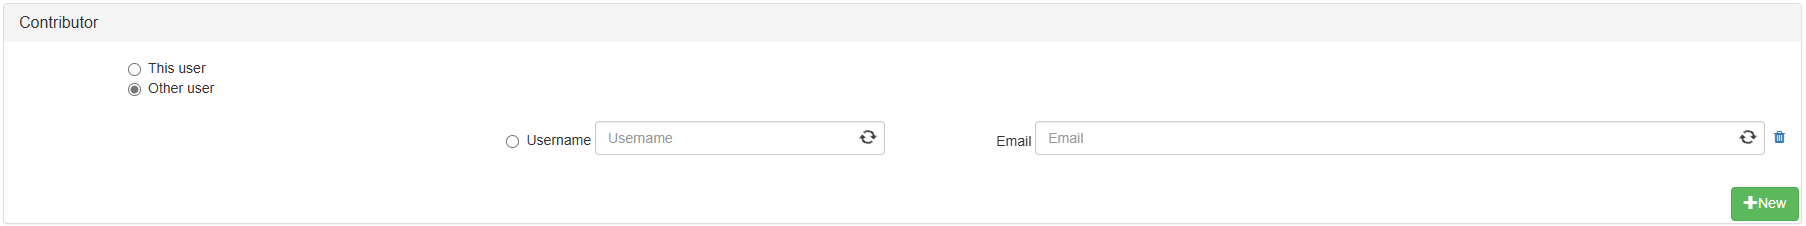
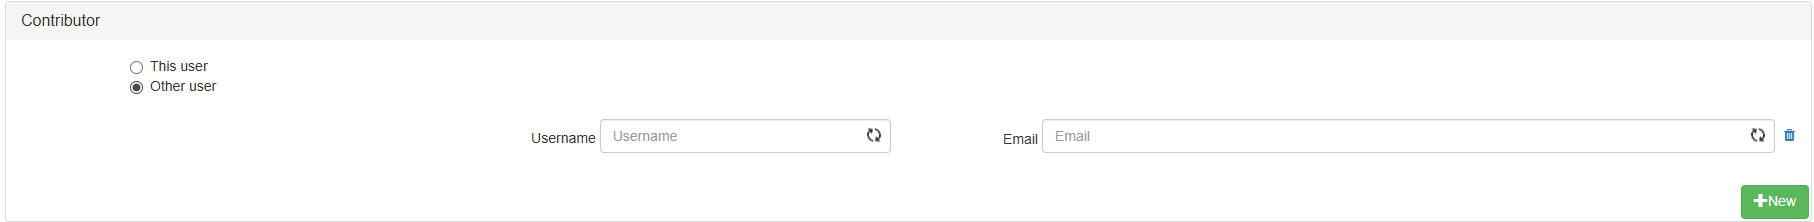
fix proxy posting process

diff --git a/docs/spec/base/user/USER_4_7.md b/docs/spec/base/user/USER_4_7.md
@@ -54,20 +54,15 @@ Item Registrationの一部として、画面上の設定エリアで代理投稿
   - デフォルトは\[This user\]とする（アイテム登録者のみをContributorとする）
 
   - 他のユーザから選択する場合は、\[Other user\]を選択する  
-    選択すると、Owner・Contributor の Username テキストおよび Email テキスト、ゴミ箱アイコン、Newボタンが表示される。
+    選択すると、Username テキストおよび Email テキスト、ゴミ箱アイコン、Newボタンが表示される。
 
-    - WEKO_ITEMS_UI_PROXY_POSTING が False の場合、Ownerの Username テキストと Email テキストのみ活性化し、New ボタンが非活性となる。
+    - WEKO_ITEMS_UI_PROXY_POSTING が False の場合、末尾のユーザの Username テキストと Email テキストのみ活性化し、ゴミ箱アイコンとNew ボタンが非表示となる。
 
     - \[Other user\]で未登録の場合：初期表示は、Username テキストと Email テキストは空欄である。
 
-    - \[Other user\]で登録済みの場合：初期表示は、Username テキストと Email テキストに登録済みのユーザー名とEmailアドレスが表示される。登録済みのユーザーと、Newボタン押下で追加される行はラジオボタンで選択できる。  
-    ラジオボタンのON・OFFで以下のように表示が切り替わる。
+    - \[Other user\]で登録済みの場合：初期表示は、Username テキストと Email テキストに登録済みのユーザー名とEmailアドレスが表示される。
 
-      - ラジオボタンON：Username ラベルは Owner へ変更される。Contributor から Owner になる。ゴミ箱アイコンが非表示になる。
-
-      - ラジオボタンOFF：Username ラベルは Contributor へ変更される。Owner 　から Contributor になる。ゴミ箱アイコンが表示になる。
-
-    - Newボタン押下：Username ラベルは Username、Username テキストと Email テキストは空欄で1行追加する。  
+    - Newボタン押下：Username テキストと Email テキストは空欄で1行追加する。  
     追加できる行に上限はない。
 
     - ゴミ箱アイコン押下：2行以上存在する場合、1行削除する。
@@ -75,10 +70,6 @@ Item Registrationの一部として、画面上の設定エリアで代理投稿
       - 1行のみ存在し、ゴミ箱アイコンを押下した場合、以下のエラーメッセージを表示し、削除をキャンセルする。  
       英語：「At least 1 user is required.」  
       日本語：「ユーザーは1名以上必要です。」
-
-      - 削除対象のユーザーのログイン状態をチェックする。ログインしている場合、以下のエラーメッセージを表示し、削除をキャンセルする。  
-      英語：「Logged-in user cannot be deleted.」  
-      日本語：「ログインユーザーは削除できません。」
 
   - Username または Email に任意の文字列を入力すると、インクリメンタルサーチでヒットするユーザが候補一覧に自動表示される
     
@@ -88,22 +79,7 @@ Item Registrationの一部として、画面上の設定エリアで代理投稿
 
   - 「Username」及び「Email」を手動入力することもできる
   
-  - 「保存」ボタンを押したときに、以下のチェックを行う
-
-      - \[Other user\]のユーザーで Owner が選択されていない場合、以下のエラーメッセージを表示し、保存をキャンセルする。  
-      メッセージ：  
-      「Be sure to select an owner.」
-
-      - Owner の Email テキストが空白である場合、以下のエラーメッセージを表示し、保存をキャンセルする。  
-      メッセージ：  
-      「\[owner email address is blank.\]」
-
-      - WEKO_ITEMS_UI_PROXY_POSTING がTrue かつ\[Other user\]のユーザーの中にログインしているユーザーが存在しない場合、以下のエラーメッセージを表示し、保存をキャンセルする。  
-      メッセージ：  
-      英語：「Logged-in user cannot be deleted」  
-      日本語：「ログインユーザーは削除できません。」
-  
-  - ［次へ（Next）］ボタンを押したときに、以下のチェックを行う
+  - ［保存］ボタン、［次へ（Next）］ボタンを押したときに、以下のチェックを行う
     
       - 入力したUsernameが存在しない、または\[Other user\]を選択してユーザ設定エリアに何も入力していない場合は、指定されたユーザが存在しない旨メッセージを表示し、入力確定できない  
         メッセージ：  
@@ -115,17 +91,12 @@ Item Registrationの一部として、画面上の設定エリアで代理投稿
         「An error ocurred while processing the input data\!  
         Cannot read properties of null (reading 'username')」
     
-      - WEKO_ITEMS_UI_PROXY_POSTING が False かつ入力ユーザがアイテム登録ユーザーであれば、メッセージを表示する  
+      - 入力ユーザがアイテム登録ユーザーであれば、メッセージを表示する  
         メッセージ：「You cannot specify yourself in "Other user" setting.」
-
-      - \[Other user\]のユーザーで Owner が選択されていない場合、以下のエラーメッセージを表示し、保存をキャンセルする。  
-      メッセージ：  
-      「Be sure to select an owner.」
-
-       - WEKO_ITEMS_UI_PROXY_POSTING がTrue かつ\[Other user\]のユーザーの中にログインしているユーザーが存在しない場合、以下のエラーメッセージを表示し、保存をキャンセルする。  
-       メッセージ：  
-       英語：「Logged-in user cannot be deleted」  
-       日本語：「ログインユーザーは削除できません。」
+      
+      - WEKO_ITEMS_UI_PROXY_POSTING が True で、入力されたメールアドレスに重複がある場合、重複している旨のメッセージを表示し、入力確定できない  
+        メッセージ：  
+        「Duplicate email addresses found:」
 
   - Contributorとして指定されたユーザは、アイテム登録者と同様に該当アイテムの登録(編集)権限が付与される      
  

diff --git a/docs/manuals/USER/base/README.md b/docs/manuals/USER/base/README.md
@@ -2516,16 +2516,6 @@ Information画面の各項目の内容は以下の通りです。
 
 > \[![](media/media/image347.png)\]ボタンをクリックすると、行が削除されます。
 
-> ![](media/media/image348.png)
-
-> 図 512\[ユーザ情報入力項目\]画面 Owner選択 
-
-> Usernameの左側のラジオボタンをいずれかのユーザから選択し（１名の場合はそのユーザ）、Ownerに設定します。 
-
-> 代理投稿者として指定するユーザには必ずログインユーザを指定します。 
-
-> 入力したログインユーザの行を削除しようとするとき［ログインユーザーは削除できません。］というエラーメッセージが表示されます。 
-
 
 1.  ファイルを登録する
 
